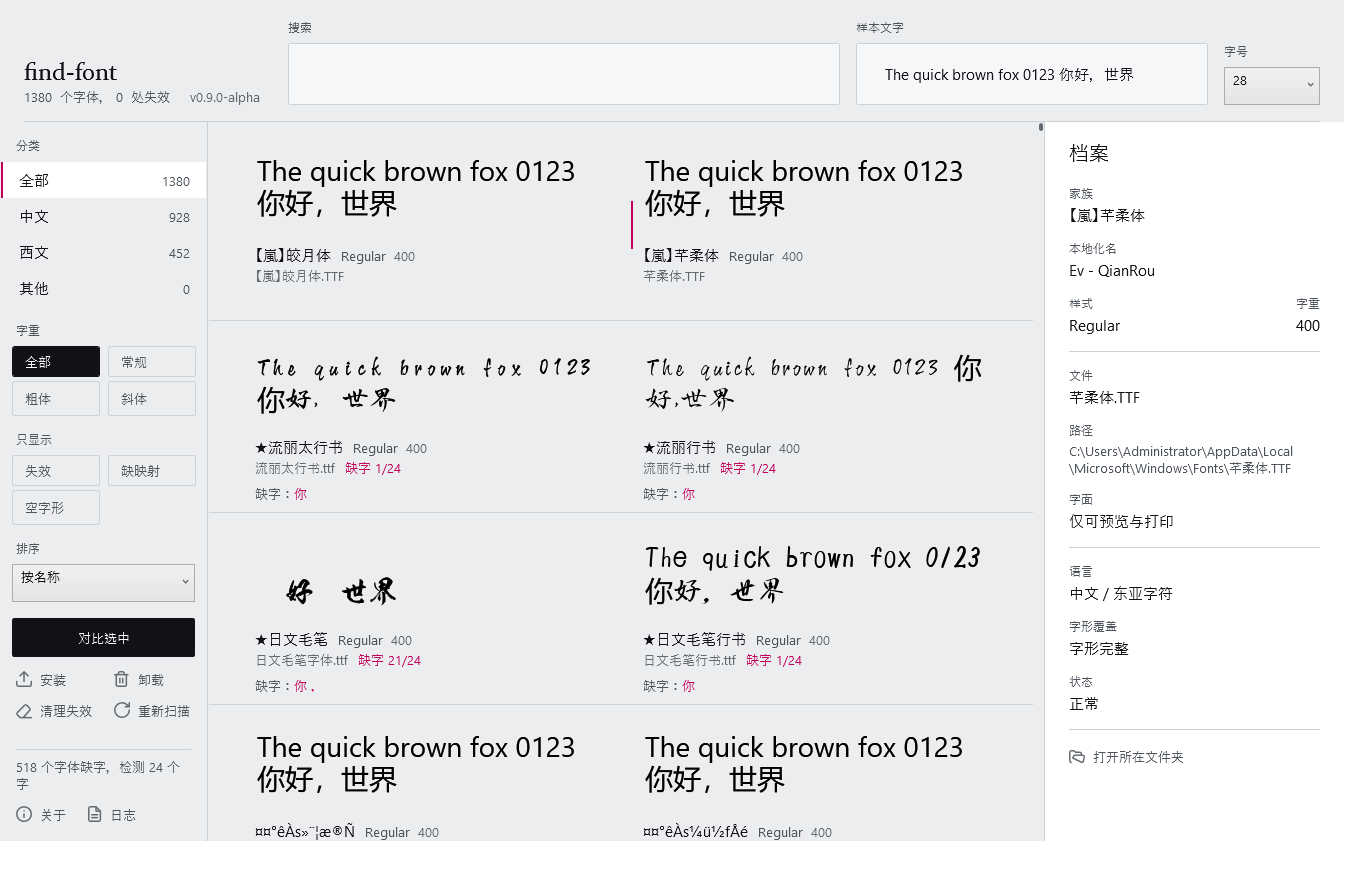
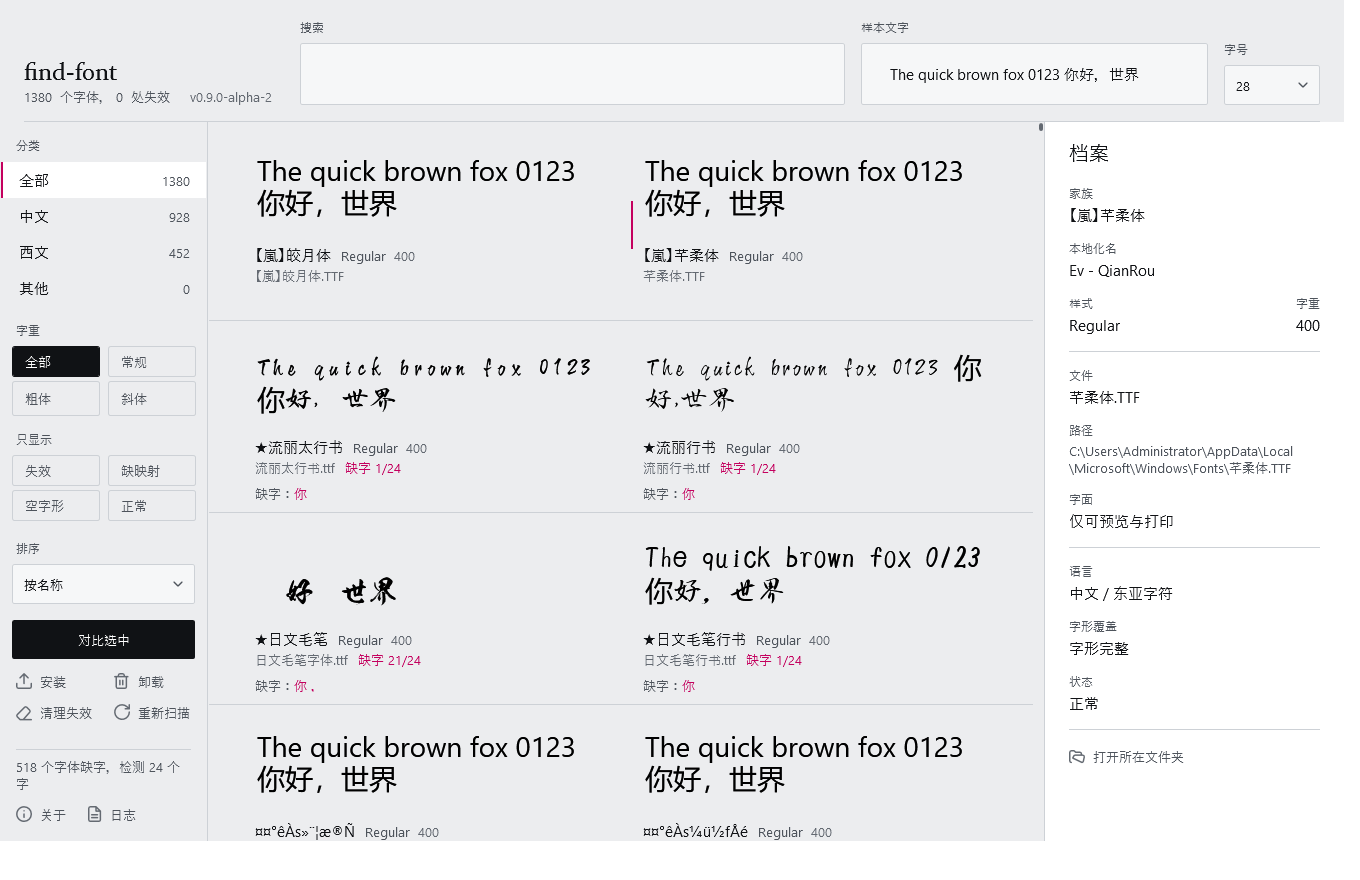
feat(ui): 下拉框收进同一套纸张语言，只显示加「正常」，版本 0.9.0-alpha-2

diff --git a/src/FindFont.App/Themes/Controls.Inputs.xaml b/src/FindFont.App/Themes/Controls.Inputs.xaml
@@ -81,15 +81,188 @@
         </Setter>
     </Style>
 
+    <!--
+        下拉项：与索引栏同一套「三层叠画出选中」的语言 —— 2px 品红标尺 + 浅底，
+        出现时只动 Opacity，不做位移或缩放。
+    -->
+    <Style x:Key="FieldComboBoxItem" TargetType="ComboBoxItem">
+        <Setter Property="Padding" Value="10,7" />
+        <Setter Property="FontFamily" Value="{StaticResource UiFace}" />
+        <Setter Property="FontSize" Value="{StaticResource TextMetaSize}" />
+        <Setter Property="Foreground" Value="{StaticResource Ink}" />
+        <Setter Property="HorizontalContentAlignment" Value="Left" />
+        <Setter Property="FocusVisualStyle" Value="{x:Null}" />
+        <Setter Property="Template">
+            <Setter.Value>
+                <ControlTemplate TargetType="ComboBoxItem">
+                    <Grid>
+                        <Border x:Name="Hover" Background="{StaticResource Sheet}" Opacity="0" />
+                        <Rectangle x:Name="Mark" Width="2" Fill="{StaticResource Proof}"
+                                   HorizontalAlignment="Left" Opacity="0" />
+                        <ContentPresenter Margin="{TemplateBinding Padding}" VerticalAlignment="Center" />
+                    </Grid>
+                    <ControlTemplate.Triggers>
+                        <Trigger Property="IsHighlighted" Value="True">
+                            <Trigger.EnterActions>
+                                <BeginStoryboard>
+                                    <Storyboard>
+                                        <DoubleAnimation Storyboard.TargetName="Hover" Storyboard.TargetProperty="Opacity"
+                                                         To="1" Duration="{x:Static motion:Motion.FastXaml}" />
+                                    </Storyboard>
+                                </BeginStoryboard>
+                            </Trigger.EnterActions>
+                            <Trigger.ExitActions>
+                                <BeginStoryboard>
+                                    <Storyboard>
+                                        <DoubleAnimation Storyboard.TargetName="Hover" Storyboard.TargetProperty="Opacity"
+                                                         To="0" Duration="{x:Static motion:Motion.FastXaml}" />
+                                    </Storyboard>
+                                </BeginStoryboard>
+                            </Trigger.ExitActions>
+                        </Trigger>
+                        <Trigger Property="IsSelected" Value="True">
+                            <Setter TargetName="Mark" Property="Opacity" Value="1" />
+                        </Trigger>
+                    </ControlTemplate.Triggers>
+                </ControlTemplate>
+            </Setter.Value>
+        </Setter>
+    </Style>
+
+    <!--
+        下拉框：不再沿用系统默认的灰渐变箭头，改成与输入框同一张纸 ——
+        1px 发丝边、2px 圆角、右侧一枚 8px 的细 chevron；展开时底边亮出品红标尺。
+    -->
     <Style x:Key="FieldComboBox" TargetType="ComboBox">
         <Setter Property="FontFamily" Value="{StaticResource UiFace}" />
         <Setter Property="FontSize" Value="{StaticResource TextMetaSize}" />
-        <Setter Property="Height" Value="38" />
+        <Setter Property="Height" Value="40" />
         <Setter Property="Foreground" Value="{StaticResource Ink}" />
-        <Setter Property="Padding" Value="9,4" />
-        <Setter Property="FocusVisualStyle" Value="{StaticResource ProofFocusVisual}" />
+        <Setter Property="Padding" Value="12,0" />
+        <Setter Property="BorderThickness" Value="1" />
         <Setter Property="BorderBrush" Value="{StaticResource Rule}" />
         <Setter Property="Background" Value="{StaticResource Sheet}" />
+        <Setter Property="Cursor" Value="Hand" />
+        <Setter Property="SnapsToDevicePixels" Value="True" />
+        <Setter Property="FocusVisualStyle" Value="{x:Null}" />
+        <Setter Property="ScrollViewer.HorizontalScrollBarVisibility" Value="Disabled" />
+        <Setter Property="ItemContainerStyle" Value="{StaticResource FieldComboBoxItem}" />
+        <Setter Property="Template">
+            <Setter.Value>
+                <ControlTemplate TargetType="ComboBox">
+                    <Grid>
+                        <Grid.ColumnDefinitions>
+                            <ColumnDefinition Width="*" />
+                            <ColumnDefinition Width="Auto" />
+                        </Grid.ColumnDefinitions>
+
+                        <!-- 背景层铺满两列，负责边框、hover 与点击 -->
+                        <ToggleButton x:Name="Toggle" Grid.ColumnSpan="2"
+                                      Focusable="False" ClickMode="Press" Cursor="Hand"
+                                      IsChecked="{Binding IsDropDownOpen, Mode=TwoWay, RelativeSource={RelativeSource TemplatedParent}}">
+                            <ToggleButton.Template>
+                                <ControlTemplate TargetType="ToggleButton">
+                                    <Border x:Name="Shell"
+                                            Background="{StaticResource Sheet}"
+                                            BorderBrush="{StaticResource Rule}"
+                                            BorderThickness="1"
+                                            CornerRadius="2"
+                                            SnapsToDevicePixels="True" />
+                                    <ControlTemplate.Triggers>
+                                        <Trigger Property="IsMouseOver" Value="True">
+                                            <Setter TargetName="Shell" Property="BorderBrush" Value="{StaticResource InkFaint}" />
+                                        </Trigger>
+                                        <Trigger Property="IsChecked" Value="True">
+                                            <Setter TargetName="Shell" Property="Background" Value="{StaticResource SheetRaised}" />
+                                            <Setter TargetName="Shell" Property="BorderBrush" Value="{StaticResource InkFaint}" />
+                                        </Trigger>
+                                    </ControlTemplate.Triggers>
+                                </ControlTemplate>
+                            </ToggleButton.Template>
+                        </ToggleButton>
+
+                        <ContentPresenter Grid.Column="0"
+                                          Margin="{TemplateBinding Padding}"
+                                          VerticalAlignment="Center"
+                                          IsHitTestVisible="False"
+                                          Content="{TemplateBinding SelectionBoxItem}"
+                                          ContentTemplate="{TemplateBinding SelectionBoxItemTemplate}"
+                                          ContentStringFormat="{TemplateBinding SelectionBoxItemStringFormat}" />
+
+                        <!-- 细 chevron：8×5 折线，不填充 -->
+                        <Path x:Name="Chevron" Grid.Column="1"
+                              Margin="0,0,12,0" VerticalAlignment="Center"
+                              IsHitTestVisible="False"
+                              Data="M0,0L4,4L8,0"
+                              Stroke="{StaticResource InkMuted}"
+                              StrokeThickness="1.4"
+                              StrokeStartLineCap="Round" StrokeEndLineCap="Round" StrokeLineJoin="Round" />
+
+                        <Rectangle x:Name="Underline" Grid.ColumnSpan="2"
+                                   Height="2" Fill="{StaticResource Proof}"
+                                   VerticalAlignment="Bottom" Margin="0,0,0,-1"
+                                   RenderTransformOrigin="0.5,0.5" Opacity="0">
+                            <Rectangle.RenderTransform>
+                                <ScaleTransform ScaleY="0" />
+                            </Rectangle.RenderTransform>
+                        </Rectangle>
+
+                        <Popup x:Name="PART_Popup"
+                               IsOpen="{TemplateBinding IsDropDownOpen}"
+                               Placement="Bottom" VerticalOffset="3"
+                               AllowsTransparency="True" Focusable="False"
+                               PopupAnimation="None">
+                            <Border Background="{StaticResource SheetRaised}"
+                                    BorderBrush="{StaticResource Rule}"
+                                    BorderThickness="1"
+                                    CornerRadius="2"
+                                    MinWidth="{TemplateBinding ActualWidth}"
+                                    MaxHeight="{TemplateBinding MaxDropDownHeight}"
+                                    SnapsToDevicePixels="True">
+                                <ScrollViewer Margin="2" VerticalScrollBarVisibility="Auto"
+                                              HorizontalScrollBarVisibility="Disabled">
+                                    <ItemsPresenter KeyboardNavigation.DirectionalNavigation="Contained" />
+                                </ScrollViewer>
+                            </Border>
+                        </Popup>
+                    </Grid>
+                    <ControlTemplate.Triggers>
+                        <Trigger Property="IsDropDownOpen" Value="True">
+                            <Trigger.EnterActions>
+                                <BeginStoryboard>
+                                    <Storyboard>
+                                        <DoubleAnimation Storyboard.TargetName="Underline"
+                                                         Storyboard.TargetProperty="Opacity" To="1"
+                                                         Duration="{x:Static motion:Motion.FastXaml}" />
+                                        <DoubleAnimation Storyboard.TargetName="Underline"
+                                                         Storyboard.TargetProperty="(UIElement.RenderTransform).(ScaleTransform.ScaleY)"
+                                                         To="1" Duration="{x:Static motion:Motion.FastXaml}"
+                                                         EasingFunction="{x:Static motion:Motion.Ease}" />
+                                    </Storyboard>
+                                </BeginStoryboard>
+                            </Trigger.EnterActions>
+                            <Trigger.ExitActions>
+                                <BeginStoryboard>
+                                    <Storyboard>
+                                        <DoubleAnimation Storyboard.TargetName="Underline"
+                                                         Storyboard.TargetProperty="Opacity" To="0"
+                                                         Duration="{x:Static motion:Motion.FastXaml}" />
+                                        <DoubleAnimation Storyboard.TargetName="Underline"
+                                                         Storyboard.TargetProperty="(UIElement.RenderTransform).(ScaleTransform.ScaleY)"
+                                                         To="0" Duration="{x:Static motion:Motion.FastXaml}" />
+                                    </Storyboard>
+                                </BeginStoryboard>
+                            </Trigger.ExitActions>
+                        </Trigger>
+                        <Trigger Property="IsEnabled" Value="False">
+                            <Setter TargetName="Chevron" Property="Stroke" Value="{StaticResource Rule}" />
+                            <Setter Property="Foreground" Value="{StaticResource InkFaint}" />
+                            <Setter Property="Cursor" Value="Arrow" />
+                        </Trigger>
+                    </ControlTemplate.Triggers>
+                </ControlTemplate>
+            </Setter.Value>
+        </Setter>
     </Style>
 
 </ResourceDictionary>

diff --git a/src/FindFont.App/Themes/Rail.xaml b/src/FindFont.App/Themes/Rail.xaml
@@ -77,8 +77,10 @@
                               IsChecked="{Binding ShowBrokenOnly}" />
                     <CheckBox Content="缺映射" Style="{StaticResource ChipToggle}" Margin="4,0,0,4"
                               IsChecked="{Binding ShowMissingMapOnly}" />
-                    <CheckBox Content="空字形" Style="{StaticResource ChipToggle}" Margin="0,0,4,0"
+                    <CheckBox Content="空字形" Style="{StaticResource ChipToggle}" Margin="0,0,4,4"
                               IsChecked="{Binding ShowEmptyGlyphOnly}" />
+                    <CheckBox Content="正常" Style="{StaticResource ChipToggle}" Margin="4,0,0,4"
+                              IsChecked="{Binding ShowHealthyOnly}" />
                 </UniformGrid>
             </StackPanel>
 

diff --git a/src/FindFont.App/ViewModels/MainViewModel.Coverage.cs b/src/FindFont.App/ViewModels/MainViewModel.Coverage.cs
@@ -26,6 +26,9 @@ public partial class MainViewModel
     /// <summary>只留下「有映射但轮廓为空」的字体。</summary>
     [ObservableProperty] private bool _showEmptyGlyphOnly;
 
+    /// <summary>只留下「当前样品串下一个字都不缺」的字体；没检测过的不算正常。</summary>
+    [ObservableProperty] private bool _showHealthyOnly;
+
     /// <summary>覆盖检测进行中（状态栏用）。</summary>
     [ObservableProperty] private bool _isCoverageBusy;
 
@@ -35,6 +38,8 @@ public partial class MainViewModel
     partial void OnShowMissingMapOnlyChanged(bool value) => ApplyFilter();
 
     partial void OnShowEmptyGlyphOnlyChanged(bool value) => ApplyFilter();
+
+    partial void OnShowHealthyOnlyChanged(bool value) => ApplyFilter();
 
     /// <summary>当前用来检测的样品串。</summary>
     private string CoverageProbeText =>

diff --git a/src/FindFont.App/ViewModels/MainViewModel.Filtering.cs b/src/FindFont.App/ViewModels/MainViewModel.Filtering.cs
@@ -147,9 +147,10 @@ public partial class MainViewModel
     {
         if (ShowBrokenOnly && !item.IsBroken) return false;
 
-        // 缺字筛选：未检测的字体在打开这两个开关时一律排除，因为「不知道」不等于「没问题」。
+        // 缺字筛选：未检测的字体在打开这几个开关时一律排除，因为「不知道」不等于「没问题」。
         if (ShowMissingMapOnly && !item.HasMissingFromCmap) return false;
         if (ShowEmptyGlyphOnly && !item.HasEmptyGlyph) return false;
+        if (ShowHealthyOnly && (item.Coverage is null || item.HasCoverageHoles)) return false;
 
         var style = SelectedStyleIndex switch
         {

diff --git a/tests/FindFont.SmokeTests/Tests/CoverageTests.cs b/tests/FindFont.SmokeTests/Tests/CoverageTests.cs
@@ -226,5 +226,14 @@ internal static class CoverageTests
 
         vm.ShowMissingMapOnly = true;
         Check(vm.VisibleFonts.Count == 0, "两个开关同时打开（AND）应没有交集");
+
+        vm.ShowMissingMapOnly = false;
+        vm.ShowEmptyGlyphOnly = false;
+        vm.ShowHealthyOnly = true;
+        Check(vm.VisibleFonts.Count == 1, $"只看正常应剩 1 项，实际 {vm.VisibleFonts.Count}");
+        Check(vm.VisibleFonts[0].FamilyName == "Clean", "只看正常应只留 Clean（未检测的不算正常）");
+
+        vm.ShowHealthyOnly = false;
+        Check(vm.VisibleFonts.Count == 4, "全部关掉应恢复 4 项");
     }
 }
